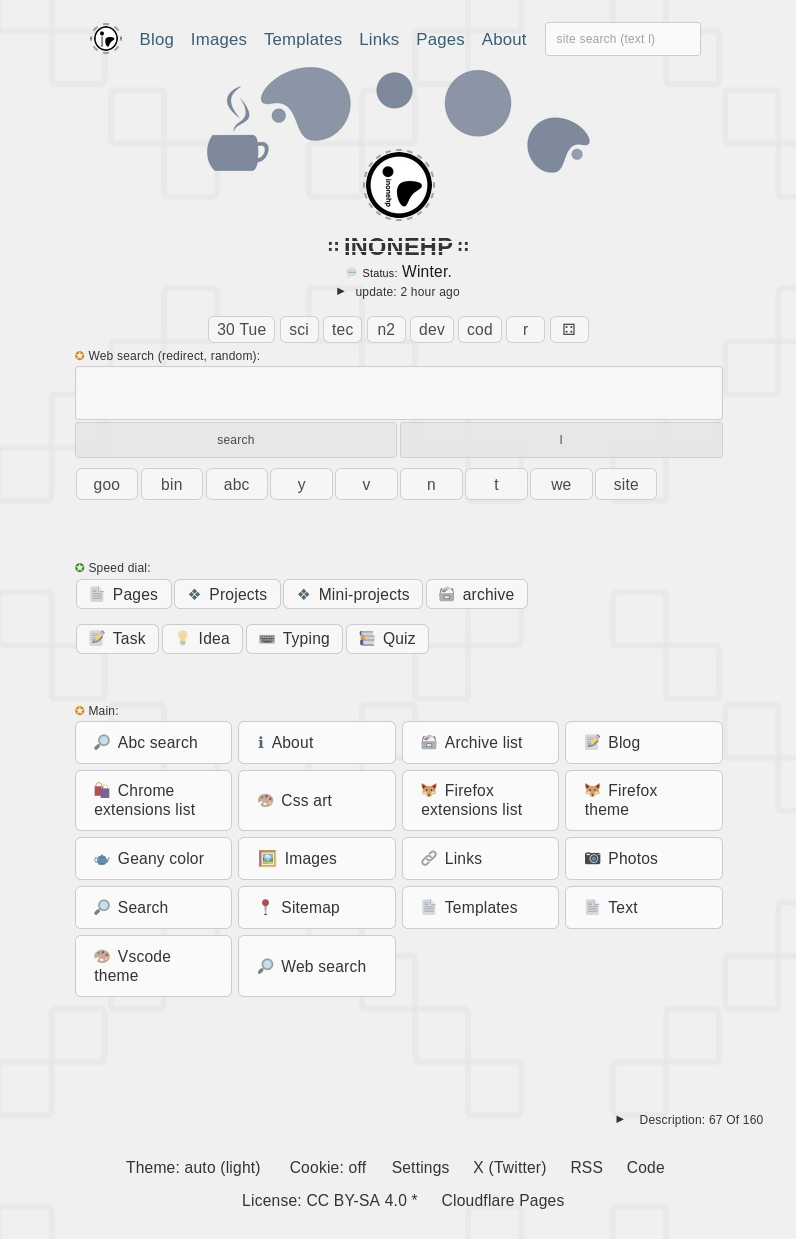
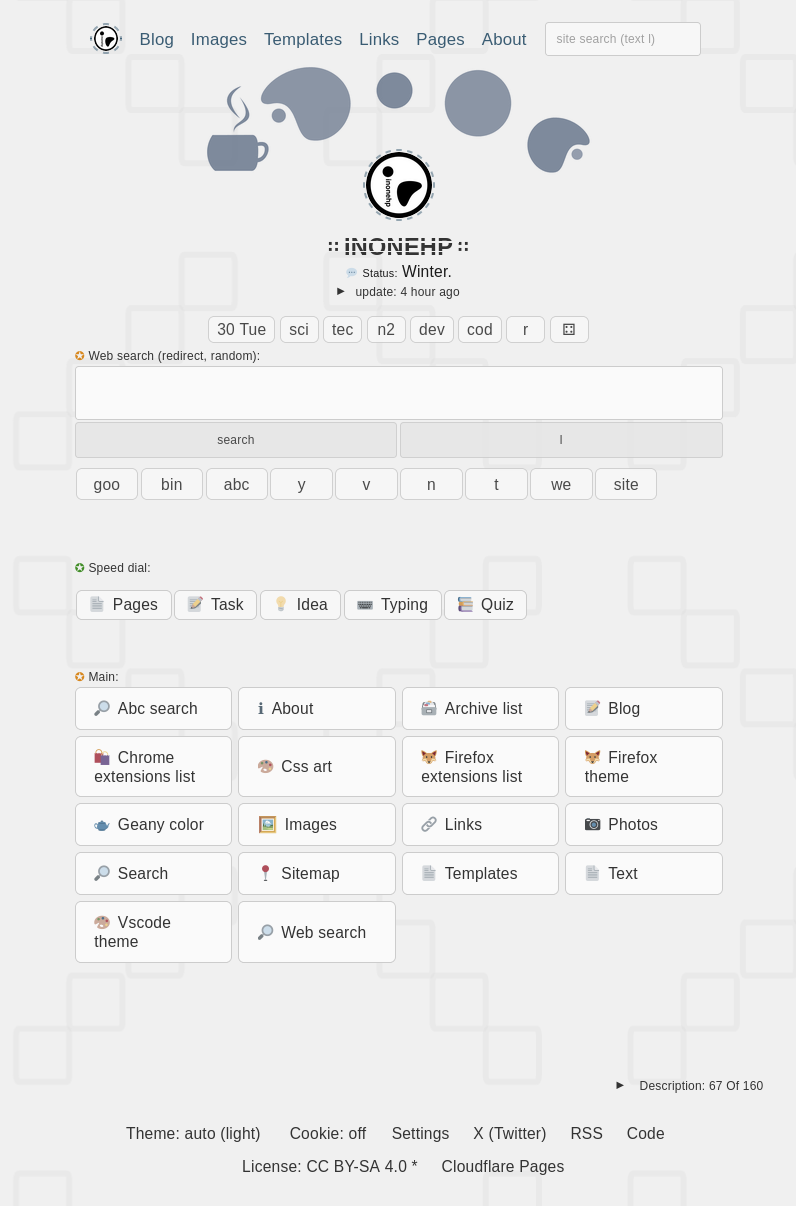
update

diff --git a/index.html b/index.html
@@ -203,14 +203,14 @@ display: block;
 <span class="small zero center">&nbsp;∷</span>
 </h1>
 <div class="padding">
-<span class="xxSmall padding insertIcon">Status: </span>
+<span class="xxSmall padding">Status: </span>
 <span class="pre tLeft small">Winter.</span> 
 
 <details class="small">
 <summary class="op wrapperS padding2List pointer">
 <span class="xSmall padding2List">update: <span id="last-update"></span></span>
 </summary>
-<div class="wrapperL small inlineBlock padding2  margin2List pre bg shadow borderRadius2 tLeft">New page: Abc Search.</div>
+<div class="wrapperL small inlineBlock padding2  margin2List pre bg shadow borderRadius2 tLeft">fixed ads</div>
 </details>
 
 
@@ -353,6 +353,68 @@ document.getElementById("hotLinksTop").innerHTML = a;
 
 
 
+<style>
+.username {
+position: relative;
+text-transform: uppercase;
+}
+.username::after, .username::before {
+position: relative;
+content: '';
+display: block;
+position: absolute;
+bottom: 30%;
+left: 0;
+width: 105%;
+height: 5%;
+background: var(--bg);
+}
+.username::before {
+top: 30%;
+}
+
+.headerBannerImg {
+padding-top: 10px;
+display: block;
+margin: 0 auto;
+max-height: 120px;
+margin: -30px auto;
+position: relative;
+z-index: -1;
+}
+
+
+
+.hotLinks {
+/*display: grid;
+/*grid-template-columns: repeat(auto-fill, minmax(42px, 1fr));
+grid-template-columns: repeat(auto-fill, minmax(52px, 1fr));
+grid-gap: 1px;*/
+/*margin: 0 auto;
+justify-content: center;
+align-items: center;*/
+
+display: flex;
+flex: 1 0 auto;
+flex-wrap: wrap;
+}
+
+.hotLinks a {
+display: inline-flex;
+width: 52px;
+height: 100%;
+justify-content: center;
+align-content: center;
+text-wrap: balance;
+padding: .3em;
+
+flex: 1 0 auto;
+flex-wrap: wrap;
+}
+/*.hotLinks .tag { max-width: 100%; }*/
+</style>
+
+
 <div  class="center" style="margin-top: 7px;">
 <div class="wrapper tCenter small"><!--if scrollX horizontal class rm tagList)-->
 <div id="hotLinks">
@@ -430,16 +492,9 @@ document.getElementById("hotLinks").innerHTML = a;
 <div class="wrapper small">
 <span class="xSmall op block tLeft paddingList marginList"><span class="bold green">✪</span> Speed dial:</span>
 
-<div class="tagList left">
-<a class="insertIcon tag2 light2 border borderRadius2" href="/pages.html">Pages</a>
-<a class="insertIcon tag2 light2 border borderRadius2" href="/projects-list.html#projects">Projects</a>
-<a class="insertIcon tag2 light2 border borderRadius2" href="/mini-projects-list.html#mini-projects">Mini-projects</a>
-<!--<a class="insertIcon tag2 light2 border borderRadius2" href="/other-projects-list.html#other-projects">Other-projects</a>-->
-<a class="insertIcon tag2 light2 border borderRadius2" href="/archive-list.html#archive">archive</a>
-</div>
-
 <div class="block margin2"></div>
 <div class="tagList left">
+<a class="insertIcon tag2 light2 border borderRadius2" href="/pages.html">Pages</a>
 <a class="insertIcon tag2 light2 border borderRadius2" href="/projects/31-todo-list-task/">Task</a>
 <a class="insertIcon tag2 light2 border borderRadius2" href="/projects/32-todo-list-idea/">Idea</a>
 <a class="insertIcon tag2 light2 border borderRadius2" href="/projects/14-typing-speed/">Typing</a>
@@ -625,7 +680,7 @@ return time + ' ago';
 
 <!--<script src="/js/fuPostTime.js"></script>-->
 <script>
-document.getElementById("last-update").innerHTML = fuPostTime(1706570895);
+document.getElementById("last-update").innerHTML = fuPostTime(1706588729);
 </script>
 
 <script>

diff --git a/css/style.css b/css/style.css
@@ -1,4 +1,4 @@
-/* v.1.7.5 */
+/* v.1.8.0 */
 
 
 
@@ -8,34 +8,6 @@ nav form { width: 100%; max-width: 130px; margin: 5px; margin-left: 10px; vertic
 nav input[type=search] { padding: 5px 9px; min-height: 10px; }
 nav form ::placeholder { font-size: x-small; }
 
-.username {
-position: relative;
-text-transform: uppercase;
-}
-.username::after, .username::before {
-position: relative;
-content: '';
-display: block;
-position: absolute;
-bottom: 30%;
-left: 0;
-width: 105%;
-height: 5%;
-background: var(--bg);
-}
-.username::before {
-top: 30%;
-}
-
-.headerBannerImg {
-padding-top: 10px;
-display: block;
-margin: 0 auto;
-max-height: 120px;
-margin: -30px auto;
-position: relative;
-z-index: -1;
-}
 
 .menu {
 display: grid;
@@ -75,11 +47,6 @@ font-weight: bold;
 /*nav a::first-letter {
 border-bottom: 1px solid var(--b3);
 }*/
-
-
-
-
-
 
 
 /************/
@@ -173,32 +140,8 @@ from{ }
 to{ border: 2px solid color-mix(in srgb, var(--brand) 20%, transparent); }
 }
 
-.hotLinks {
-display: grid;
-/*grid-template-columns: repeat(auto-fill, minmax(42px, 1fr));
-grid-template-columns: repeat(auto-fill, minmax(52px, 1fr));*/
-grid-template-columns: repeat(auto-fill, minmax(52px, 1fr));
-grid-gap: 1px;
-/*margin: 0 auto;
-justify-content: center;
-align-items: center;*/
-}
-
-.hotLinks a {
-display: inline-flex;
-min-width: 52px;
-height: 100%;
-justify-content: center;
-align-content: center;
-text-wrap: balance;
-padding: .3em;
-}
 
 
-/*.hotLinks .tag { max-width: 100%; }*/
-:root{
---borderBottomOpacity: 50%;
-}
 .borderBottomBrand { border-bottom: 2px solid color-mix(in srgb, var(--brand) 60%, transparent); }
 .borderBottomRed { border-bottom: 2px dashed color-mix(in srgb, var(--red) 50%, transparent); }
 .borderBottomOrange { border-bottom: 2px solid color-mix(in srgb, var(--orange) 60%, transparent); }

diff --git a/web-search.html b/web-search.html
@@ -189,6 +189,68 @@ display: block;
 </form>
 
 
+<style>
+.username {
+position: relative;
+text-transform: uppercase;
+}
+.username::after, .username::before {
+position: relative;
+content: '';
+display: block;
+position: absolute;
+bottom: 30%;
+left: 0;
+width: 105%;
+height: 5%;
+background: var(--bg);
+}
+.username::before {
+top: 30%;
+}
+
+.headerBannerImg {
+padding-top: 10px;
+display: block;
+margin: 0 auto;
+max-height: 120px;
+margin: -30px auto;
+position: relative;
+z-index: -1;
+}
+
+
+
+.hotLinks {
+/*display: grid;
+/*grid-template-columns: repeat(auto-fill, minmax(42px, 1fr));
+grid-template-columns: repeat(auto-fill, minmax(52px, 1fr));
+grid-gap: 1px;*/
+/*margin: 0 auto;
+justify-content: center;
+align-items: center;*/
+
+display: flex;
+flex: 1 0 auto;
+flex-wrap: wrap;
+}
+
+.hotLinks a {
+display: inline-flex;
+width: 52px;
+height: 100%;
+justify-content: center;
+align-content: center;
+text-wrap: balance;
+padding: .3em;
+
+flex: 1 0 auto;
+flex-wrap: wrap;
+}
+/*.hotLinks .tag { max-width: 100%; }*/
+</style>
+
+
 <div  class="center" style="margin-top: 7px;">
 <div class="wrapper tCenter small"><!--if scrollX horizontal class rm tagList)-->
 <div id="hotLinks">

diff --git a/install.html b/install.html
@@ -171,10 +171,10 @@ display: block;
 
 
 
-<button class="post padding2 margin2 borderList" onclick="startInstallPWA()"><span class="bold">Start Install (22,49 MB)</span>
+<button class="post padding2 margin2 borderList" onclick="startInstallPWA()"><span class="bold">Start Install (22,47 MB)</span>
 <span class="small block padding2">registration sw.js (service worker) and adding files to the cache. (1)</span></button>
 <div id="startInstallStatus" class="post padding2 margin2 borderList"></div>
-<button class="add-button post padding2 margin2 borderList bold green" onclick="startInstallPWA()">Install (22,49 MB) (2)</button>
+<button class="add-button post padding2 margin2 borderList bold green" onclick="startInstallPWA()">Install (22,47 MB) (2)</button>
 
 
 

diff --git a/projects/17-insert-icon/script.js b/projects/17-insert-icon/script.js
@@ -1,4 +1,4 @@
-// Fu insert icon v.2.6.2
+// Fu insert icon v.2.6.3
 // Function for insert icon in links using class name.
 
 
@@ -133,7 +133,9 @@ let icons = {
 "pumpkin":"🎃", "halloween":"🎃",
 "pc":"🖥", "desktop":"🖥", "computer":"🖥",
 "photo":"📷", "camera":"📷", "screenshot":"📷",
-"project":"❖", "projects":"❖", "tpl":"📄", "template":"📄", "templates":"📄", "iframe":"📄",
+//"project":"❖", "projects":"❖",
+"project":"∷", "projects":"∷",
+"tpl":"📄", "template":"📄", "templates":"📄", "iframe":"📄",
 "radio":"📻",
 "random":"🎲", "dice":"🎲",
 "robot":"🤖", "auto":"🤖",

diff --git a/js/ad.js b/js/ad.js
@@ -1,12 +1,11 @@
 /* v.1.4.7 */
 // print ads from json var list: fuAds('', 'ads2 - id where print', '');
 
-async function fuAds(none, idAds, none2){
+async function fuAds(none, idAds, com){
 
 
 // none - Reserved variable
-// idAds - for print
-// comAds - reserved
+// idAds - id for print
 
 //var adsStatus =  localStorage.getItem("confAdsStatus");
 var adsStatus = conf["confAdsStatus"];
@@ -80,7 +79,7 @@ document.getElementById(idAds).innerHTML = '<div class="center"><div class="adsC
 
 
 // all
-if(comAds == 'all'){
+if(com == 'all'){
 
 
 var adsPrintAll = '';

diff --git a/data/bookmarksJsonVar.js b/data/bookmarksJsonVar.js
@@ -1,15 +1,6 @@
 var bookmarksJsonVar = 
 [
     {
-        "id": "90",
-        "text": "Web Design Inspiration : The Best Website Design Ideas",
-        "text2": "",
-        "text3": "",
-        "url": "https:\/\/www.webdesign-inspiration.com\/",
-        "tag": "#NotSorted #inspiration",
-        "time": 1706566092
-    },
-    {
         "id": "89",
         "text": "Analytics Tools & Solutions for Your Business - Google Analytics",
         "text2": "",

diff --git a/data-page.html b/data-page.html
@@ -202,7 +202,7 @@ display: block;
 <!-- post -->
 <div class="bgList borderList  file post ">
 
-<div class="pre padding2List"><a class="brand" href="/data/bookmarksJsonVar.js">/data/bookmarksJsonVar.js</a> <span class="op">(21,15 KB)</span></div>
+<div class="pre padding2List"><a class="brand" href="/data/bookmarksJsonVar.js">/data/bookmarksJsonVar.js</a> <span class="op">(20,88 KB)</span></div>
 <div class="postTagList small"></div>
 
 </div>
